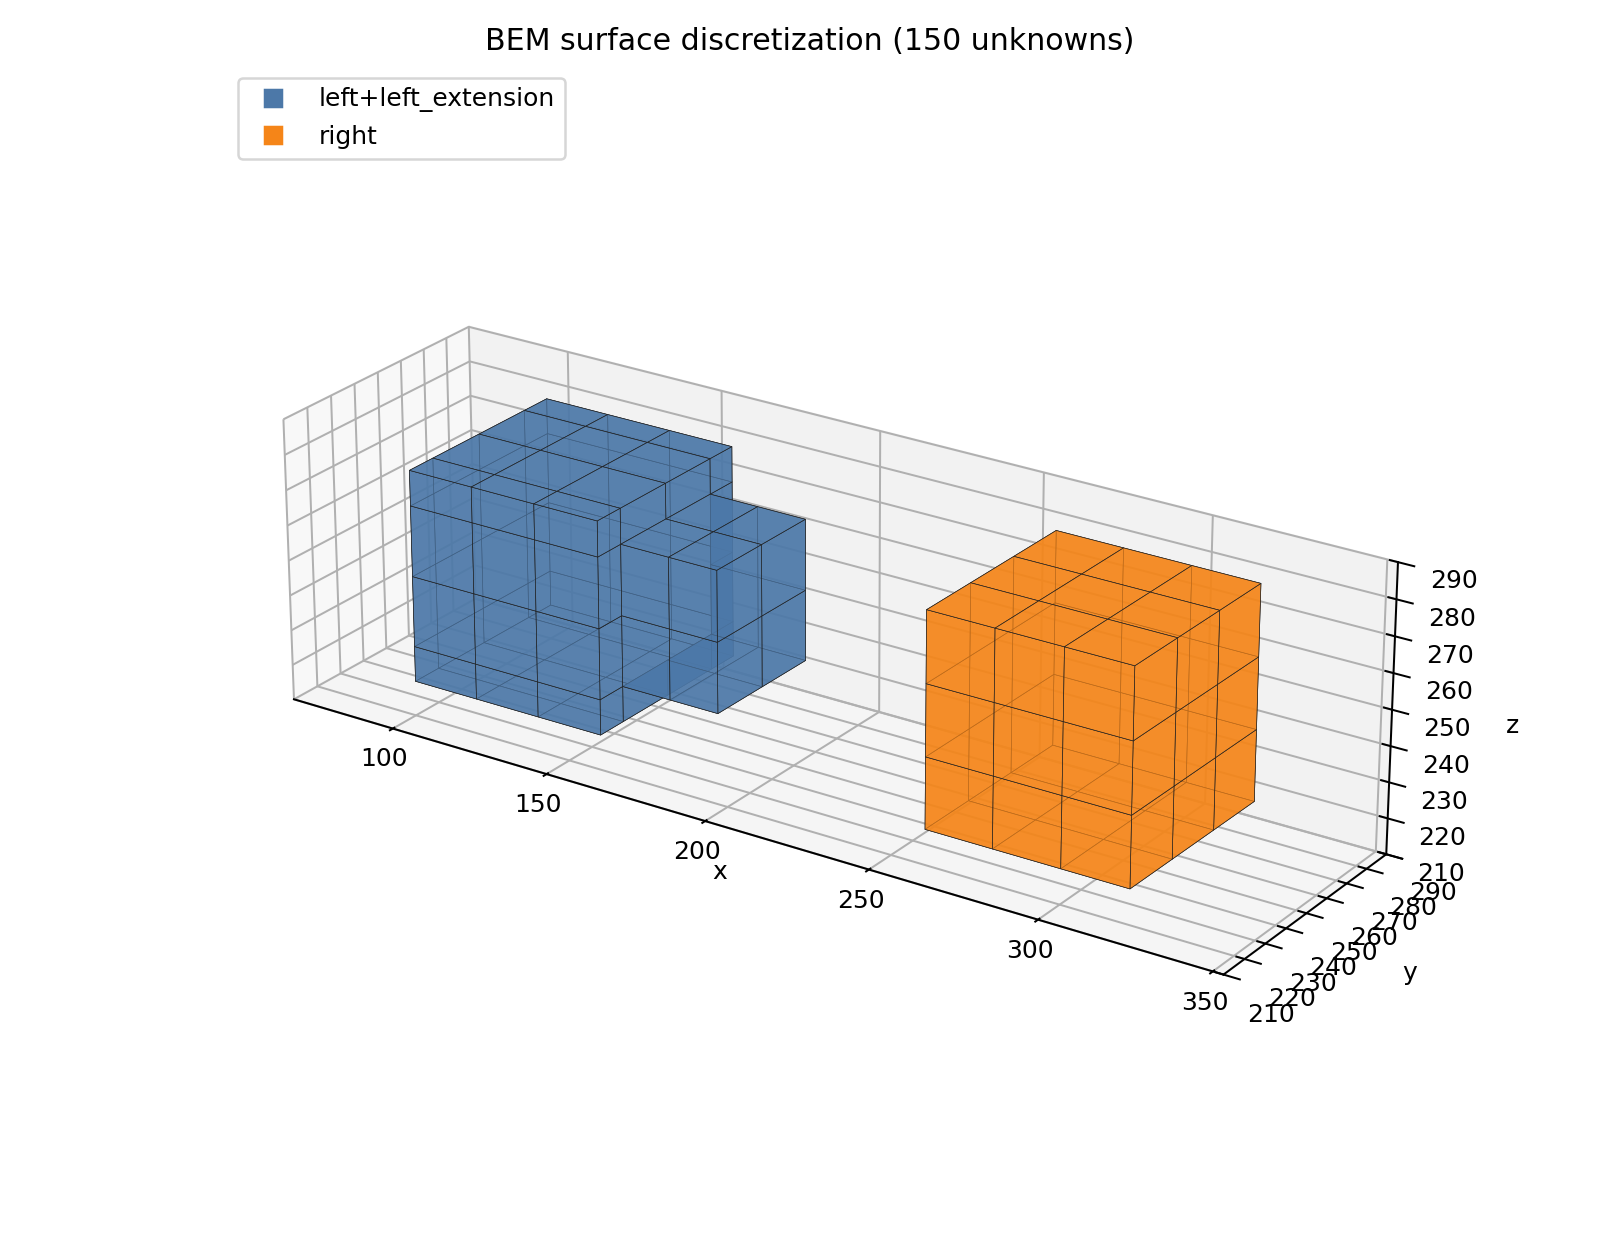
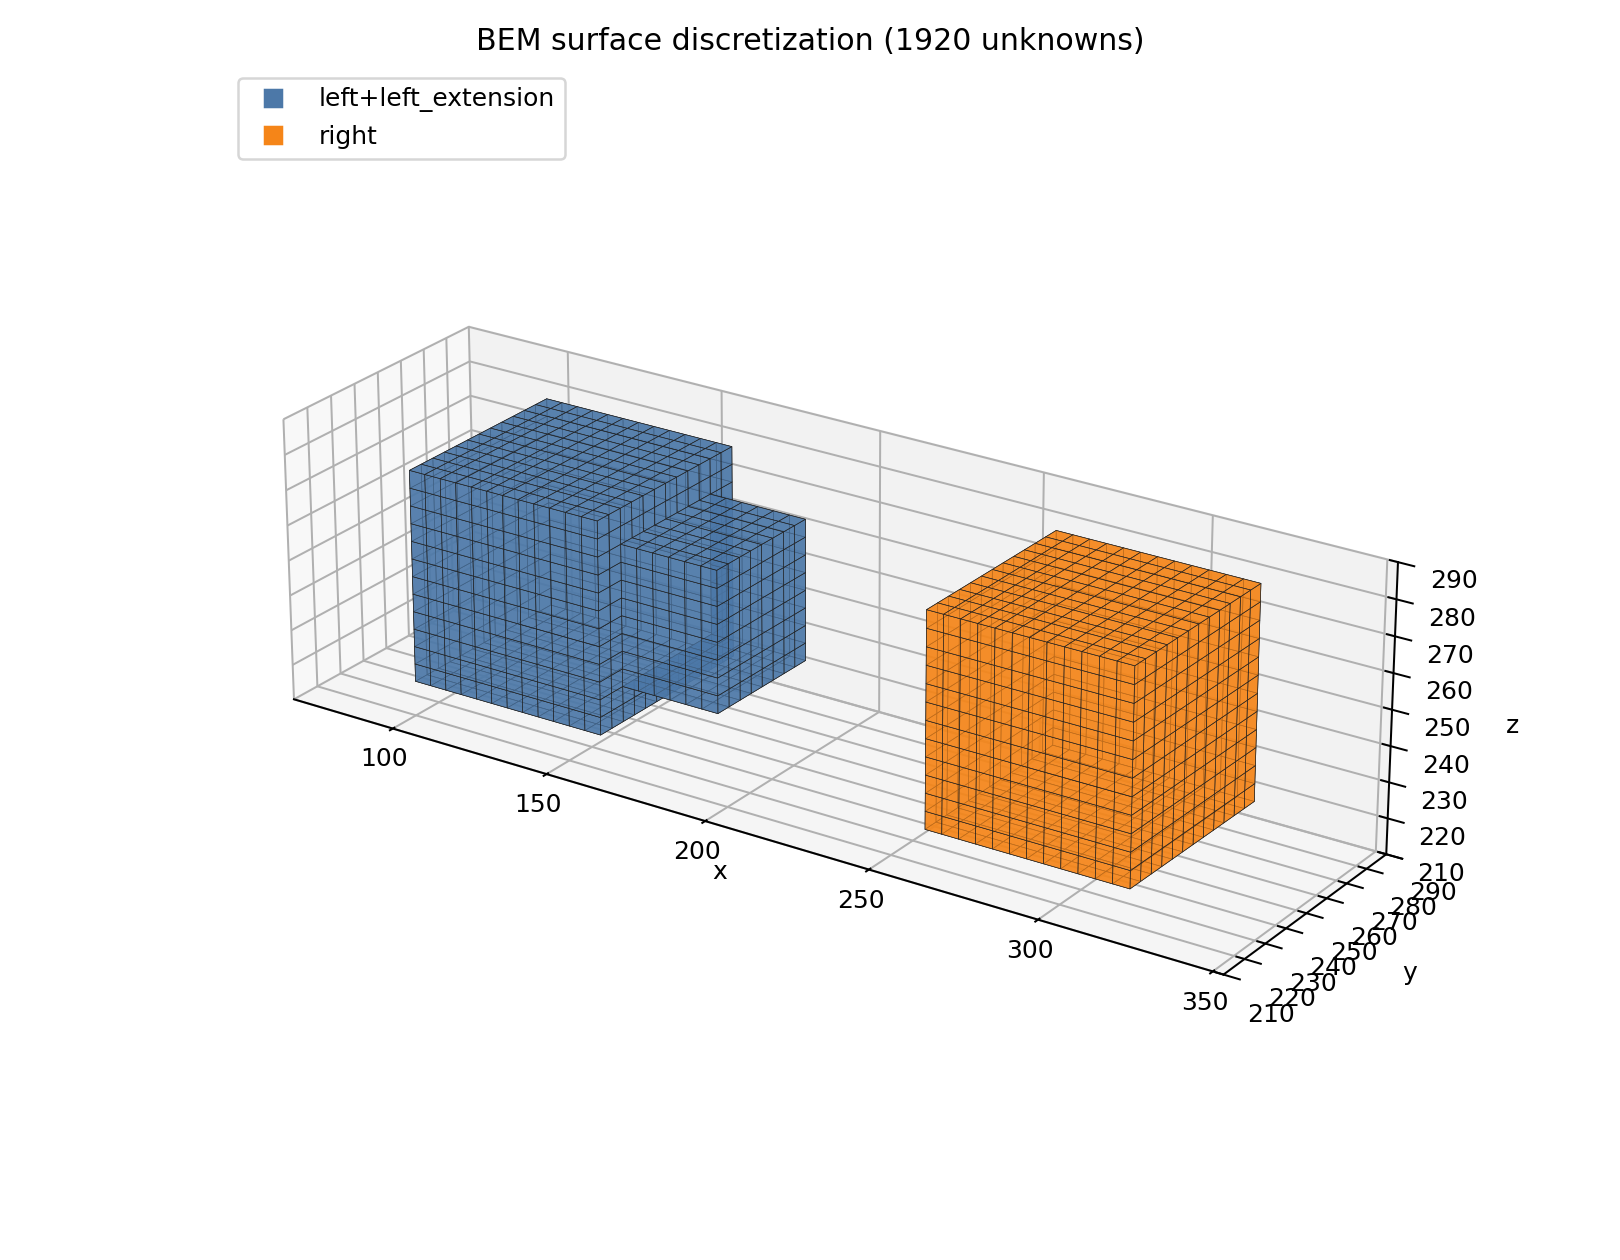
Record BEM mesh refinement study
- use max_panel_size=5 in the run_bem example

- print influence matrix shape during BEM solve

- refresh the discretization image for the finer mesh

- move solver notes into tests/tests_log.md

- add mesh refinement capacitance trend data

Changed region(s): [[0.2469, 0.3095, 0.4938, 0.5881], [0.5556, 0.4333, 0.7716, 0.7119], [0.3086, 0.0, 0.7099, 0.0619]]

diff --git a/examples/run_bem.py b/examples/run_bem.py
@@ -9,7 +9,7 @@ from capext.solvers import DenseBEMSolver
 
 
 def main() -> None:
-    max_panel_size = 20.0
+    max_panel_size = 5.0
     problem = CapacitanceProblem.from_boxes(
         [
             ("left", (100.0, 220.0, 220.0), (160.0, 280.0, 280.0)),

diff --git a/src/capext/solvers/bem.py b/src/capext/solvers/bem.py
@@ -69,12 +69,14 @@ class DenseBEMSolver(CapacitanceSolver):
             point_approximation_ratio=self.point_approximation_ratio,
             multipole_order=self.multipole_order,
         )
+        print(f"influence matrix size: {influence.shape}")
         panel_net_indices = np.asarray([panel.net_index for panel in panels], dtype=int)
         panel_areas = np.asarray([panel.area for panel in panels], dtype=float)
 
         net_count = len(nets)
         panel_to_net = np.eye(net_count, dtype=float)[panel_net_indices]
         sigma = np.linalg.solve(influence, panel_to_net)
+
         capacitance = panel_to_net.T @ (sigma * panel_areas[:, np.newaxis])
 
         if self.symmetrize:

diff --git a/tests/tests_log.md b/tests/tests_log.md
@@ -1,0 +1,79 @@
+examples/run_bem.py
+===================
+
+Geometry:
+
+[
+    ("left", (100.0, 220.0, 220.0), (160.0, 280.0, 280.0)),
+    ("right", (260.0, 220.0, 220.0), (320.0, 280.0, 280.0)),
+    ("left_extension", (160.0, 230.0, 230.0), (190.0, 270.0, 270.0)),
+]
+
+Merged nets:
+
+('left+left_extension', 'right')
+
+# BEM, disk approximation
+## study 1: symmetrize
+BEM unknown counts:
+
+without physical outer box: 150
+with meshed physical outer box: 3900
+
+Current solve:
+
+The reference-node enclosure is appended analytically, so it does not add BEM
+unknowns. The dense influence matrix solved for this example is 150 x 150 with
+2 RHS columns.
+
+symmetrize = true
+
+[[ 5.102710e-09 -1.353685e-09 -3.749025e-09]
+ [-1.353685e-09  4.703415e-09 -3.349730e-09]
+ [-3.749025e-09 -3.349730e-09  7.098755e-09]]
+
+symmetrize = false
+
+[[ 5.102710388083e-09 -1.353586978564e-09 -3.749123409519e-09]
+ [-1.353783198873e-09  4.703415143085e-09 -3.349631944212e-09]
+ [-3.748927189210e-09 -3.349828164520e-09  7.098755353731e-09]]
+
+symmetrize = false row sums:
+
+[0. 0. 0.]
+
+symmetrize = false asymmetry C - C.T:
+
+[[ 0.000000000000e+00  1.962203082399e-13 -1.962203082399e-13]
+ [-1.962203082399e-13  0.000000000000e+00  1.962203082399e-13]
+ [ 1.962203082399e-13 -1.962203082399e-13  0.000000000000e+00]]
+
+## study 2: mesh refinement
+influence matrix size: (150, 150)
+max_panel_size=20, unknowns=150
+[[ 5.102710388083e-09 -1.353685088719e-09 -3.749025299365e-09]
+ [-1.353685088719e-09  4.703415143085e-09 -3.349730054366e-09]
+ [-3.749025299365e-09 -3.349730054366e-09  7.098755353731e-09]]
+
+influence matrix size: (250, 250)
+max_panel_size=15, unknowns=250
+[[ 5.140797423329e-09 -1.374323465636e-09 -3.766473957693e-09]
+ [-1.374323465636e-09  4.745488420032e-09 -3.371164954397e-09]
+ [-3.766473957693e-09 -3.371164954397e-09  7.137638912090e-09]]
+
+influence matrix size: (480, 480)
+max_panel_size=10, unknowns=480
+[[ 5.166103117203e-09 -1.392618186215e-09 -3.773484930988e-09]
+ [-1.392618186215e-09  4.785322833179e-09 -3.392704646964e-09]
+ [-3.773484930988e-09 -3.392704646964e-09  7.166189577952e-09]]
+
+influence matrix size: (1920, 1920)
+max_panel_size=5, unknowns=1920
+[[ 5.205767942434e-09 -1.412947865457e-09 -3.792820076977e-09]
+ [-1.412947865457e-09  4.821478931099e-09 -3.408531065642e-09]
+ [-3.792820076977e-09 -3.408531065642e-09  7.201351142619e-09]]
+
+relative difference vs max_panel_size=5 (Frobenius norm)
+20: 1.827916e-02
+15: 1.158122e-02
+10: 6.256171e-03